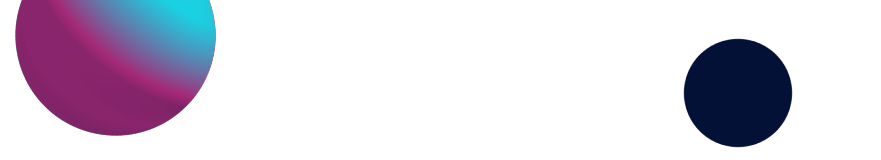
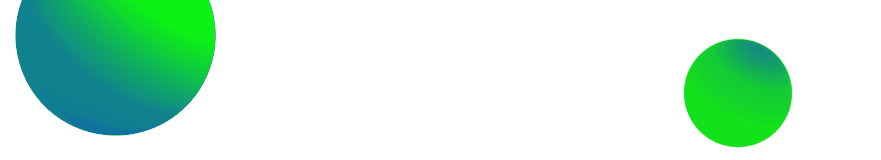
Design change & connect between signup <-> signin page.

Changed region(s): [[0.0, 0.0, 0.2452, 0.875], [0.7662, 0.2188, 0.9194, 0.9375]]

diff --git a/lib/signup_screen.dart b/lib/signup_screen.dart
@@ -3,6 +3,7 @@ import 'package:responsive_login_ui/login_screen.dart';
 import 'package:simple_gradient_text/simple_gradient_text.dart';
 import 'colorCode.dart';
 import 'widgets/gardient_button.dart';
+import 'widgets/gradient_button2.dart';
 import 'widgets/login_field.dart';
 
 class SignUpScreen extends StatelessWidget {
@@ -15,7 +16,7 @@ class SignUpScreen extends StatelessWidget {
         child: Center(
           child: Column(
             children: [
-              Image.network('assets/images/signin_balls.png'),
+              Image.network('assets/images/signin_balls2.png'),
               const SizedBox(height: 15),
               GradientText(
                 'Create \n          Account',
@@ -28,15 +29,26 @@ class SignUpScreen extends StatelessWidget {
                 ],
               ),
               const SizedBox(height: 30),
-              const LogInField(hintText: 'Name'),
+              const LogInField(
+                hintText: 'Name',
+                colorIndex: ColorCode.gradient5,
+              ),
               const SizedBox(height: 15),
-              const LogInField(hintText: 'Email'),
+              const LogInField(
+                hintText: 'Email',
+                colorIndex: ColorCode.gradient5,
+              ),
               const SizedBox(height: 15),
-              const LogInField(hintText: 'Password'),
+              const LogInField(
+                hintText: 'Password',
+                colorIndex: ColorCode.gradient5,
+              ),
               const SizedBox(height: 25),
-              GradientButton(
+              GradientButton2(
                 text: 'Sign Up',
-                onPressed: () {},
+                onPressed: () {
+                  print('Sign Up Button');
+                },
               ),
               const SizedBox(height: 15),
               const Text(
@@ -73,28 +85,33 @@ class SignUpScreen extends StatelessWidget {
                   ),
                 ],
               ),
-              const SizedBox(height: 5),
-              GestureDetector(
-                onTap: () => Navigator.push(
-                  context,
-                  MaterialPageRoute(
-                    builder: (context) => const LogInScreen(),
-                  ),
-                ),
-                child: RichText(
-                  text: const TextSpan(
-                    text: 'Already a user? ',
+              const SizedBox(height: 10),
+              Row(
+                mainAxisAlignment: MainAxisAlignment.center,
+                children: [
+                  const Text(
+                    'Already a user?  ',
                     style:
                         TextStyle(fontSize: 17, color: ColorCode.whiteColor3),
-                    children: [
-                      TextSpan(
-                        text: 'SignIn',
-                        style: TextStyle(
-                            fontSize: 17, color: ColorCode.whiteColor),
-                      ),
-                    ],
                   ),
-                ),
+                  GestureDetector(
+                    onTap: () => Navigator.push(
+                      context,
+                      MaterialPageRoute(
+                        builder: (context) => const LogInScreen(),
+                      ),
+                    ),
+                    child: GradientText(
+                      'Sign In',
+                      style: const TextStyle(fontSize: 17),
+                      colors: const [
+                        ColorCode.gradient1,
+                        ColorCode.gradient2,
+                        ColorCode.gradient3,
+                      ],
+                    ),
+                  ),
+                ],
               ),
             ],
           ),

diff --git a/lib/login_screen.dart b/lib/login_screen.dart
@@ -47,36 +47,49 @@ class LogInScreen extends StatelessWidget {
                 style: TextStyle(fontSize: 17),
               ),
               const SizedBox(height: 15),
-              const LogInField(hintText: 'Email'),
+              const LogInField(
+                hintText: 'Email',
+                colorIndex: ColorCode.gradient2,
+              ),
               const SizedBox(height: 15),
-              const LogInField(hintText: 'Password'),
+              const LogInField(
+                hintText: 'Password',
+                colorIndex: ColorCode.gradient2,
+              ),
               const SizedBox(height: 25),
               GradientButton(
                 text: 'Sign In',
-                onPressed: () {},
+                onPressed: () {
+                  print('Sign In Button');
+                },
               ),
               const SizedBox(height: 20),
-              GestureDetector(
-                onTap: () => Navigator.push(
-                  context,
-                  MaterialPageRoute(
-                    builder: (context) => SignUpScreen(),
-                  ),
-                ),
-                child: RichText(
-                  text: const TextSpan(
-                    text: 'Don\'t have an account? ',
+              Row(
+                mainAxisAlignment: MainAxisAlignment.center,
+                children: [
+                  const Text(
+                    'Don\'t have an account?  ',
                     style:
                         TextStyle(fontSize: 17, color: ColorCode.whiteColor2),
-                    children: [
-                      TextSpan(
-                        text: 'Create Account',
-                        style: TextStyle(
-                            fontSize: 17, color: ColorCode.whiteColor),
-                      ),
-                    ],
                   ),
-                ),
+                  GestureDetector(
+                    onTap: () => Navigator.push(
+                      context,
+                      MaterialPageRoute(
+                        builder: (context) => const SignUpScreen(),
+                      ),
+                    ),
+                    child: GradientText(
+                      'Create Account',
+                      style: const TextStyle(fontSize: 17),
+                      colors: const [
+                        ColorCode.gradient4,
+                        ColorCode.gradient5,
+                        ColorCode.gradient6,
+                      ],
+                    ),
+                  ),
+                ],
               ),
               const SizedBox(height: 5),
               const Text(

diff --git a/lib/widgets/gradient_button2.dart b/lib/widgets/gradient_button2.dart
@@ -2,10 +2,10 @@ import 'package:flutter/material.dart';
 
 import '../colorCode.dart';
 
-class GradientButton extends StatelessWidget {
+class GradientButton2 extends StatelessWidget {
   final String text;
   final VoidCallback onPressed;
-  const GradientButton({
+  const GradientButton2({
     Key? key,
     required this.text,
     required this.onPressed,
@@ -17,9 +17,9 @@ class GradientButton extends StatelessWidget {
       decoration: BoxDecoration(
         gradient: const LinearGradient(
           colors: [
-            ColorCode.gradient1,
-            ColorCode.gradient2,
-            ColorCode.gradient3,
+            ColorCode.gradient4,
+            ColorCode.gradient5,
+            ColorCode.gradient6,
           ],
           begin: Alignment.bottomLeft,
           end: Alignment.topRight,

diff --git a/lib/widgets/login_field.dart b/lib/widgets/login_field.dart
@@ -4,8 +4,10 @@ import '../colorCode.dart';
 
 class LogInField extends StatelessWidget {
   final String hintText;
+  final Color colorIndex;
 
-  const LogInField({Key? key, required this.hintText}) : super(key: key);
+  const LogInField({Key? key, required this.hintText, required this.colorIndex})
+      : super(key: key);
 
   @override
   Widget build(BuildContext context) {
@@ -26,9 +28,9 @@ class LogInField extends StatelessWidget {
               10,
             ),
           ),
-          focusedBorder: const OutlineInputBorder(
+          focusedBorder: OutlineInputBorder(
             borderSide: BorderSide(
-              color: ColorCode.gradient2,
+              color: colorIndex,
               width: 3,
             ),
           ),
